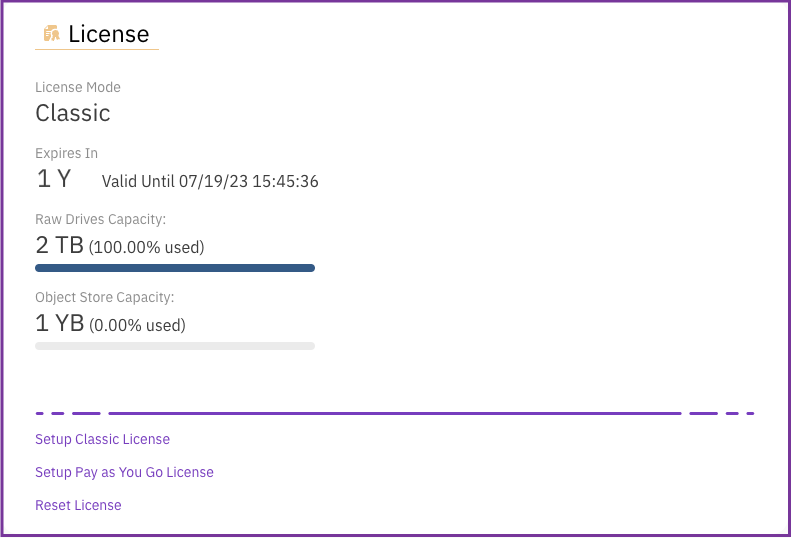
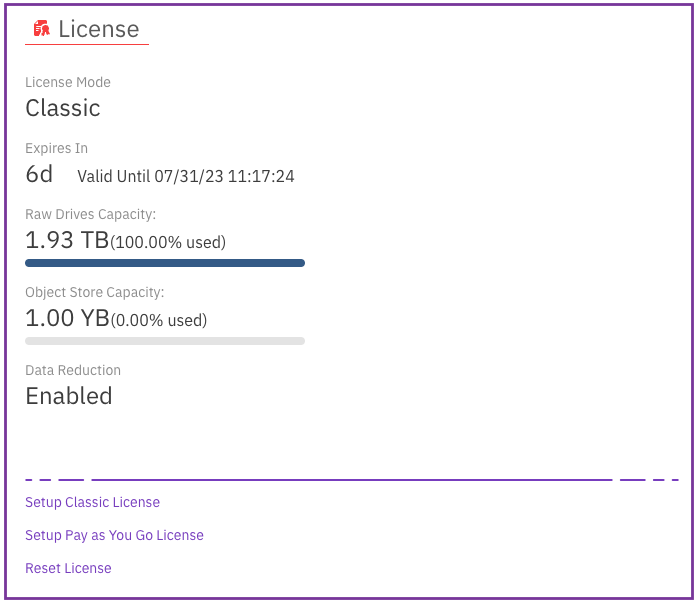
GITBOOK-165: Remove the PAYG license option

Changed region(s): [[0.0, 0.0, 1.0, 1.0], [0.9683, 0.9814, 0.9986, 1.0]]

diff --git a/licensing/overview.md b/licensing/overview.md
@@ -4,7 +4,7 @@ description: This page describes how licensing works in a WEKA cluster.
 
 # License overview
 
-A license is a legal instrument governing the usage terms of the WEKA cluster.
+A license is a legal instrument governing the usage terms of the WEKA cluster. When a license is applied to a WEKA cluster, the cluster verifies the license validity by comparing the license properties and the actual cluster usage.
 
 The license terms include the following properties:
 
@@ -14,24 +14,13 @@ The license terms include the following properties:
 * Object store capacity
 * Data Efficiency Option (DEO) license (if provided)
 
-When a license is applied to a WEKA cluster, the cluster verifies the license validity by comparing the license properties and the actual cluster usage.&#x20;
-
-To start in a newly configured cluster, you must set a valid license. WEKA supports two license types:
-
-* **Classic license:** With this license type, the cost consists of a predetermined period (For example, one year) and the cluster capacity.
-* **Pay-As-You-Go (PAYG) license:** With this license type, the cost consists of hourly usage and cluster capacity.
-
-
-
-**Related topics**
-
-[classic-licensing.md](classic-licensing.md "mention")
-
-[pay-as-you-go.md](pay-as-you-go.md "mention")
-
 ## Display the license status using the GUI
 
-The WEKA cluster license page displays the license properties: license mode, expiry date, raw or usable drives capacity, and object store capacity.
+The WEKA cluster license page displays the license properties: license mode, expiry date, raw or usable drive capacity, and object store capacity.
+
+{% hint style="info" %}
+The following example shows a classic license mode. The Pay As You Go (PAYG) license is deprecated and is no longer available to new customers.
+{% endhint %}
 
 **Procedure**
 
@@ -45,7 +34,7 @@ The WEKA cluster license page displays the license properties: license mode, exp
 You can display the license status using one of the following commands:
 
 * `weka cluster license`: Displays the license properties.
-* `weka status`: Displays the weka status, including the license status and expiry date.
+* `weka status`: Displays the weka status, license status, and expiry date.
 * `weka alerts`: If no license is assigned to the cluster, the command displays a relevant alert.&#x20;
 
 **Example: License status using the `weka cluster license` command**
@@ -53,16 +42,21 @@ You can display the license status using one of the following commands:
 ```
 # weka cluster license
 Licensing status: Classic
+
 Current usage:
-    2374 GB raw drive capacity
-    1024 GB usable capacity
-    0 GB object-store capacity
+    1932 GB raw drive capacity
+    963 GB usable capacity
+    49 GB object-store capacity
+    Disabled data reduction
+
 Installed license:
-    Valid from 2022-06-21T09:22:34Z
-    Expires at 2022-07-21T09:22:34Z
-    2374 GB raw drive capacity
+    Valid from 2023-07-01T08:17:24Z
+    Expires at 2023-07-31T08:17:24Z
+    1932 GB raw drive capacity
     0 GB usable capacity
     1000000000000000 GB object-store capacity
+    Enabled data reduction
+    
 ```
 
 **Example: Display the license status using the `weka status` command**

diff --git a/support/weka-management-station-wms.md b/support/weka-management-station-wms.md
@@ -16,9 +16,9 @@ See the related topics to learn about the tools installed with the WMS.
 
 [the-wekaio-support-cloud](the-wekaio-support-cloud/ "mention")
 
-[external-monitoring.md](external-monitoring.md "mention")
+[external-monitoring.md](../appendix/external-monitoring.md "mention")
 
-[snapshot-management.md](snapshot-management.md "mention")
+[snapshot-management.md](../appendix/snapshot-management.md "mention")
 
 ## WMS deployment prerequisites
 
@@ -230,7 +230,7 @@ The WMS provides a simple text editor to facilitate editing the `/etc/hosts` fil
 Snaptool is pre-installed in the `/opt/snaptool` directory and includes all the containers, so there is no need to download anything. Only configuration is required.
 
 1. From the left pane, select **Snaptool Configuration**.
-2. In the Snaptool Configuration Editor, if required, you can update the configuration. For details, see [Edit the configuration in the snaptool.yml file](snapshot-management.md#edit-the-configuration-in-the-snaptool.yml-file).\
+2. In the Snaptool Configuration Editor, if required, you can update the configuration. For details, see [Edit the configuration in the snaptool.yml file](../appendix/snapshot-management.md#edit-the-configuration-in-the-snaptool.yml-file).\
    Snaptool shares the same cluster login information as WEKAmon and automatically detects and re-loads its configuration when any changes are made.
 3. Select **Save**.&#x20;
 

diff --git a/appendix/external-monitoring.md b/appendix/external-monitoring.md
@@ -137,7 +137,7 @@ The configuration of the quota-export container is defined in the `quota-export.
 2. Specify the same **hosts** as you specified in the `export.yml file` (see [above](external-monitoring.md#3.-edit-the-export.yml-file)).
 
 {% hint style="info" %}
-The configuration of the Alert Manager is defined in the `alertmanager.yml` file found in the `etc_alertmanager` directory. It contains details about the SMTP server, user email addresses, quotas, and alert rules. To set this file, contact the [Customer Success Team](getting-support-for-your-weka-system.md#contact-customer-success-team).
+The configuration of the Alert Manager is defined in the `alertmanager.yml` file found in the `etc_alertmanager` directory. It contains details about the SMTP server, user email addresses, quotas, and alert rules. To set this file, contact the [Customer Success Team](../support/getting-support-for-your-weka-system.md#contact-customer-success-team).
 {% endhint %}
 
 ### 5. Start the docker-compose containers

diff --git a/SUMMARY.md b/SUMMARY.md
@@ -176,7 +176,6 @@
 
 * [License overview](licensing/overview.md)
 * [Classic license](licensing/classic-licensing.md)
-* [Pay-As-You-Go license](licensing/pay-as-you-go.md)
 
 ## Support
 
@@ -196,8 +195,8 @@
   * [Local Weka Home deployment](support/the-wekaio-support-cloud/local-weka-home-deployment.md)
   * [Set the Local Weka Home to send alerts or events](support/the-wekaio-support-cloud/set-the-local-weka-home-to-send-alerts-or-events.md)
   * [Download the Usage Report or Analytics](support/the-wekaio-support-cloud/download-the-usage-report-or-analytics.md)
-* [Set up the WEKAmon external monitoring](support/external-monitoring.md)
-* [Set up the SnapTool external snapshots manager](support/snapshot-management.md)
+* [Set up the WEKAmon external monitoring](appendix/external-monitoring.md)
+* [Set up the SnapTool external snapshots manager](appendix/snapshot-management.md)
 
 ## Appendix
 

diff --git a/fs/snap-to-obj/snap-to-obj-1.md b/fs/snap-to-obj/snap-to-obj-1.md
@@ -55,7 +55,7 @@ For encrypted filesystem, when downloading, you must use the same KMS master key
 
 The workflow to manage the synchronous snapshots includes:
 
-1. Upload snapshots using, for example, the snapshots scheduler. See [Snapshot management](../../support/snapshot-management.md).
+1. Upload snapshots using, for example, the snapshots scheduler. See [Snapshot management](../../appendix/snapshot-management.md).
 2. Download the synchronous snapshot (described below).
 3. Restore a specific snapshot to a filesystem. See [Restore a snapshot to a filesystem or another snapshot](../snapshots/snapshots-1.md#restore-a-snapshot-to-a-filesystem-or-another-snapshot).
 

diff --git a/usage/statistics/README.md b/usage/statistics/README.md
@@ -45,7 +45,7 @@ The page shows only the statistics of the backend servers and clients in the clu
 * A backend server is removed.
 * A client is not connected to the cluster for more than the [retention period](statistics-1.md#set-statistics-retention).
 
-The WEKA cluster does not hold historical statistics data. For historical statistics data, use `weka-mon` (see [Monitor using external tools](../../support/external-monitoring.md)).
+The WEKA cluster does not hold historical statistics data. For historical statistics data, use `weka-mon` (see [Monitor using external tools](../../appendix/external-monitoring.md)).
 {% endhint %}
 
 

diff --git a/fs/snapshots/README.md b/fs/snapshots/README.md
@@ -29,7 +29,7 @@ The Weka system supports the following snapshot operations:
 * Make snapshots writable.
 * Create a snapshot of a snapshot (relevant for writable snapshots or read-only snapshots before being made writable).
 * List the snapshots and obtain their metadata.
-* Schedule automatic snapshots (see [Set up the SnapTool external snapshots manager](../../support/snapshot-management.md) in the Appendix).
+* Schedule automatic snapshots (see [Set up the SnapTool external snapshots manager](../../appendix/snapshot-management.md) in the Appendix).
 
 ## Maximum supported snapshots
 

diff --git a/getting-started-with-weka/manage-the-system-using-weka-gui.md b/getting-started-with-weka/manage-the-system-using-weka-gui.md
@@ -228,4 +228,4 @@ When managing filesystems, snapshots, and object stores, the displayed tables li
 
 [smb-management-using-the-gui.md](../additional-protocols/smb-support/smb-management-using-the-gui.md "mention")
 
-[external-monitoring.md](../support/external-monitoring.md "mention")
+[external-monitoring.md](../appendix/external-monitoring.md "mention")
